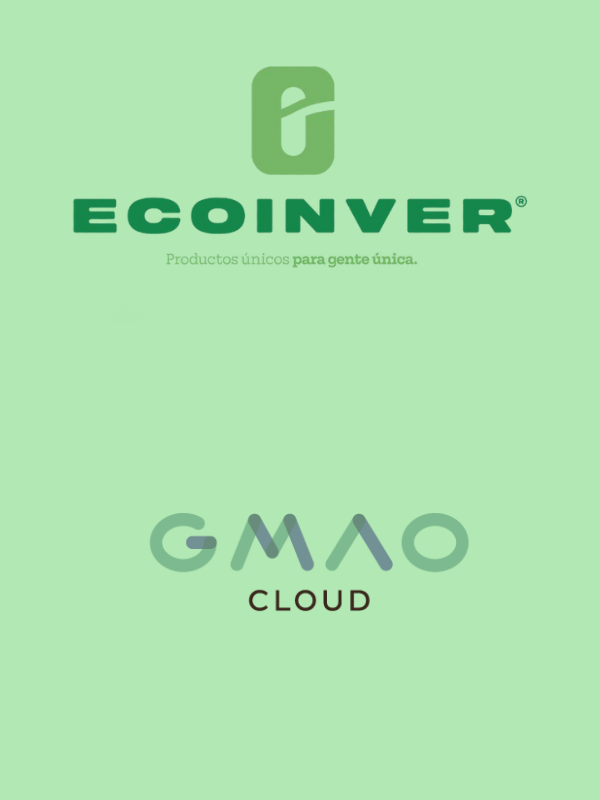
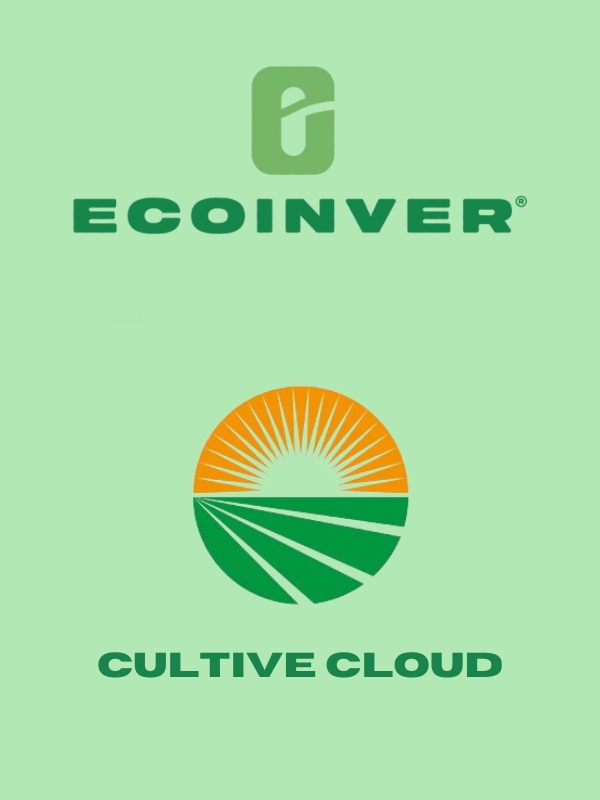
A
A

Changed region(s): [[0.24, 0.4688, 0.78, 0.7812], [0.15, 0.8125, 0.84, 0.875], [0.27, 0.3125, 0.69, 0.3438]]

diff --git a/src/app/components/sidebar/sidebar.component.ts b/src/app/components/sidebar/sidebar.component.ts
@@ -5,6 +5,7 @@ import { jwtDecode } from 'jwt-decode';
 
 interface TokenPayload {
   "http://schemas.microsoft.com/ws/2008/06/identity/claims/role": string;
+  "http://schemas.xmlsoap.org/ws/2005/05/identity/claims/formalizedname": string;
 }
 
 @Component({
@@ -12,230 +13,14 @@ interface TokenPayload {
   standalone: true,
   imports: [CommonModule],
   styleUrls: ['./sidebar.component.css'],
-  template: `
-    <div id="view" class="h-full w-screen flex flex-row">
-      <!-- Botón para mostrar el sidebar (visible en móviles) -->
-      <button
-        (click)="sidenav = true"
-        class="p-2 border-2 bg-white rounded-md border-gray-200 shadow-lg text-gray-500 focus:bg-teal-500 focus:outline-none focus:text-white absolute top-0 left-0 sm:hidden"
-      >
-        <svg
-          class="w-5 h-5 fill-current"
-          fill="currentColor"
-          viewBox="0 0 20 20"
-          xmlns="http://www.w3.org/2000/svg"
-        >
-          <path
-            fill-rule="evenodd"
-            d="M3 5a1 1 0 011-1h12a1 1 0 110 2H4a1 1 0 01-1-1zM3 10a1 1 0 011-1h12a1 1 0 110 2H4a1 1 0 01-1-1zM3 15a1 1 0 011-1h12a1 1 0 110 2H4a1 1 0 01-1-1z"
-            clip-rule="evenodd"
-          ></path>
-        </svg>
-      </button>
-      <!-- Sidebar: se muestra si sidenav es true -->
-      <div
-        id="sidebar"
-        class="bg-white h-screen md:block shadow-xl px-3 w-30 md:w-60 lg:w-60 overflow-x-hidden transition-transform duration-300 ease-in-out"
-        *ngIf="sidenav"
-      >
-        <div class="space-y-6 md:space-y-10 mt-10">
-          <h1 class="font-bold text-4xl text-center md:hidden">
-            D<span class="text-teal-600">.</span>
-          </h1>
-          <h1 class="hidden md:block font-bold text-sm md:text-xl text-center">
-            Dashwind<span class="text-teal-600">.</span>
-          </h1>
-          <div id="profile" class="space-y-3">
-            <img
-              src=""
-              alt="Avatar user"
-              class="w-10 md:w-16 rounded-full mx-auto"
-            />
-            <div>
-              <h2 class="font-medium text-xs md:text-sm text-center text-teal-500">
-                Admin
-              </h2>
-              <p class="text-xs text-gray-500 text-center">
-                {{ role === 'Admin' ? 'Administrator' : role }}
-              </p>
-            </div>
-          </div>
-          <div class="flex border-2 border-gray-200 rounded-md focus-within:ring-2 ring-teal-500">
-            <input
-              type="text"
-              class="w-full rounded-tl-md rounded-bl-md px-2 py-3 text-sm text-gray-600 focus:outline-none"
-              placeholder="Search"
-            />
-            <button class="rounded-tr-md rounded-br-md px-2 py-3 hidden md:block">
-              <svg
-                class="w-4 h-4 fill-current"
-                fill="currentColor"
-                viewBox="0 0 20 20"
-                xmlns="http://www.w3.org/2000/svg"
-              >
-                <path
-                  fill-rule="evenodd"
-                  d="M8 4a4 4 0 100 8 4 4 0 000-8zM2 8a6 6 0 1110.89 3.476l4.817 4.817a1 1 0 01-1.414 1.414l-4.816-4.816A6 6 0 012 8z"
-                  clip-rule="evenodd"
-                ></path>
-              </svg>
-            </button>
-          </div>
-          <div id="menu" class="flex flex-col space-y-2">
-            <a
-              routerLink="/dashboard"
-              class="text-sm font-medium text-gray-700 py-2 px-2 hover:bg-teal-500 hover:text-white hover:text-base rounded-md transition duration-150 ease-in-out"
-            >
-              <svg
-                class="w-6 h-6 fill-current inline-block"
-                fill="currentColor"
-                viewBox="0 0 20 20"
-                xmlns="http://www.w3.org/2000/svg"
-              >
-                <path
-                  d="M5 3a2 2 0 00-2 2v2a2 2 0 002 2h2a2 2 0 002-2V5a2 2 0 00-2-2H5zM5 11a2 2 0 00-2 2v2a2 2 0 002 2h2a2 2 0 002-2v-2a2 2 0 00-2-2H5zM11 5a2 2 0 012-2h2a2 2 0 012 2v2a2 2 0 01-2 2h-2a2 2 0 01-2-2V5zM11 13a2 2 0 012-2h2a2 2 0 012 2v2a2 2 0 01-2 2h-2a2 2 0 01-2-2v-2z"
-                ></path>
-              </svg>
-              <span>Dashboard</span>
-            </a>
-            <a
-              routerLink="/products"
-              class="text-sm font-medium text-gray-700 py-2 px-2 hover:bg-teal-500 hover:text-white hover:scale-105 rounded-md transition duration-150 ease-in-out"
-            >
-              <svg
-                class="w-6 h-6 fill-current inline-block"
-                fill="currentColor"
-                viewBox="0 0 20 20"
-                xmlns="http://www.w3.org/2000/svg"
-              >
-                <path
-                  d="M11 17a1 1 0 001.447.894l4-2A1 1 0 0017 15V9.236a1 1 0 00-1.447-.894l-4 2a1 1 0 00-.553.894V17zM15.211 6.276a1 1 0 000-1.788l-4.764-2.382a1 1 0 00-.894 0L4.789 4.488a1 1 0 000 1.788l4.764 2.382a1 1 0 00.894 0l4.764-2.382zM4.447 8.342A1 1 0 003 9.236V15a1 1 0 00.553.894l4 2A1 1 0 009 17v-5.764a1 1 0 00-.553-.894l-4-2z"
-                ></path>
-              </svg>
-              <span>Products</span>
-            </a>
-            <a
-              routerLink="/reports"
-              class="text-sm font-medium text-gray-700 py-2 px-2 hover:bg-teal-500 hover:text-white hover:scale-105 rounded-md transition duration-150 ease-in-out"
-            >
-              <svg
-                class="w-6 h-6 fill-current inline-block"
-                fill="currentColor"
-                viewBox="0 0 20 20"
-                xmlns="http://www.w3.org/2000/svg"
-              >
-                <path
-                  d="M9 2a1 1 0 000 2h2a1 1 0 100-2H9z"
-                ></path>
-                <path
-                  fill-rule="evenodd"
-                  d="M4 5a2 2 0 012-2 3 3 0 003 3h2a3 3 0 003-3 2 2 0 012 2v11a2 2 0 01-2 2H6a2 2 0 01-2-2V5zm3 4a1 1 0 000 2h.01a1 1 0 100-2H7zm3 0a1 1 0 000 2h3a1 1 0 100-2h-3zm-3 4a1 1 0 100 2h.01a1 1 0 100-2H7zm3 0a1 1 0 100 2h3a1 1 0 100-2h-3z"
-                  clip-rule="evenodd"
-                ></path>
-              </svg>
-              <span>Reports</span>
-            </a>
-            <a
-              routerLink="/messages"
-              class="text-sm font-medium text-gray-700 py-2 px-2 hover:bg-teal-500 hover:text-white hover:scale-105 rounded-md transition duration-150 ease-in-out"
-            >
-              <svg
-                class="w-6 h-6 fill-current inline-block"
-                fill="currentColor"
-                viewBox="0 0 20 20"
-                xmlns="http://www.w3.org/2000/svg"
-              >
-                <path
-                  d="M2 5a2 2 0 012-2h7a2 2 0 012 2v4a2 2 0 01-2 2H9l-3 3v-3H4a2 2 0 01-2-2V5z"
-                ></path>
-                <path
-                  d="M15 7v2a4 4 0 01-4 4H9.828l-1.766 1.767c.28.149.599.233.938.233h2l3 3v-3h2a2 2 0 002-2V9a2 2 0 00-2-2h-1z"
-                ></path>
-              </svg>
-              <span>Messages</span>
-            </a>
-            <a
-              routerLink="/calendar"
-              class="text-sm font-medium text-gray-700 py-2 px-2 hover:bg-teal-500 hover:text-white hover:scale-105 rounded-md transition duration-150 ease-in-out"
-            >
-              <svg
-                class="w-6 h-6 fill-current inline-block"
-                fill="currentColor"
-                viewBox="0 0 20 20"
-                xmlns="http://www.w3.org/2000/svg"
-              >
-                <path
-                  fill-rule="evenodd"
-                  d="M6 2a1 1 0 000 2h2a1 1 0 100-2H6z"
-                  clip-rule="evenodd"
-                ></path>
-                <path
-                  d="M2 5a2 2 0 012-2h7a2 2 0 012 2v4a2 2 0 01-2 2H9l-3 3v-3a2 2 0 00-2-2V5z"
-                ></path>
-              </svg>
-              <span>Calendar</span>
-            </a>
-            <a
-              routerLink="/table"
-              class="text-sm font-medium text-gray-700 py-2 px-2 hover:bg-teal-500 hover:text-white hover:scale-105 rounded-md transition duration-150 ease-in-out"
-            >
-              <svg
-                class="w-6 h-6 fill-current inline-block"
-                fill="currentColor"
-                viewBox="0 0 20 20"
-                xmlns="http://www.w3.org/2000/svg"
-              >
-                <path
-                  fill-rule="evenodd"
-                  d="M3 4a1 1 0 011-1h12a1 1 0 110 2H4a1 1 0 01-1-1zm0 4a1 1 0 011-1h12a1 1 0 110 2H4a1 1 0 01-1-1zm0 4a1 1 0 011-1h12a1 1 0 110 2H4a1 1 0 01-1-1zm0 4a1 1 0 011-1h12a1 1 0 110 2H4a1 1 0 01-1-1z"
-                  clip-rule="evenodd"
-                ></path>
-              </svg>
-              <span>Table</span>
-            </a>
-            <a
-              routerLink="/ui-components"
-              class="text-sm font-medium text-gray-700 py-2 px-2 hover:bg-teal-500 hover:text-white hover:scale-105 rounded-md transition duration-150 ease-in-out"
-            >
-              <svg
-                class="w-6 h-6 fill-current inline-block"
-                fill="currentColor"
-                viewBox="0 0 20 20"
-                xmlns="http://www.w3.org/2000/svg"
-              >
-                <path
-                  d="M5 3a2 2 0 00-2 2v2a2 2 0 002 2h2a2 2 0 002-2V5a2 2 0 00-2-2H5zM5 11a2 2 0 00-2 2v2a2 2 0 002 2h2a2 2 0 002-2v-2a2 2 0 00-2-2H5zM11 5a2 2 0 012-2h2a2 2 0 012 2v2a2 2 0 01-2 2h-2a2 2 0 01-2-2V5zM14 11a1 1 0 011 1v1h1a1 1 0 110 2h-1v1a1 1 0 11-2 0v-1h-1a1 1 0 110-2h1v-1a1 1 0 011-1z"
-                ></path>
-              </svg>
-              <span>UI Components</span>
-            </a>
-            <a
-              routerLink="/users"
-              class="text-sm font-medium text-gray-700 py-2 px-2 hover:bg-teal-500 hover:text-white hover:scale-105 rounded-md transition duration-150 ease-in-out"
-            >
-              <svg
-                class="w-6 h-6 fill-current inline-block"
-                fill="currentColor"
-                viewBox="0 0 20 20"
-                xmlns="http://www.w3.org/2000/svg"
-              >
-                <path
-                  d="M13 6a3 3 0 11-6 0 3 3 0 016 0zM18 8a2 2 0 11-4 0 2 2 0 014 0zM14 15a4 4 0 00-8 0v3h8v-3zM6 8a2 2 0 11-4 0 2 2 0 014 0zM16 18v-3a5.972 5.972 0 00-.75-2.906A3.005 3.005 0 0119 15v3h-3zM4.75 12.094A5.973 5.973 0 004 15v3H1v-3a3 3 0 013.75-2.906z"
-                ></path>
-              </svg>
-              <span>Users</span>
-            </a>
-          </div>
-        </div>
-      </div>
-    </div>
-  `
+  templateUrl: './sidebar.component.html'
 })
 export class SidebarComponent implements OnInit {
   role: string | null = null;
+  name: string | null = null;
   sidenav: boolean = true;
 
-  constructor(private router: Router) {}
+  constructor(private router: Router) { }
 
   ngOnInit(): void {
     const token = localStorage.getItem('token');
@@ -246,7 +31,9 @@ export class SidebarComponent implements OnInit {
     try {
       const decoded = jwtDecode<TokenPayload>(token);
       this.role = decoded["http://schemas.microsoft.com/ws/2008/06/identity/claims/role"];
-      console.log(this.role);
+      this.name = decoded["http://schemas.xmlsoap.org/ws/2005/05/identity/claims/formalizedname"];
+      console.log('Role:', this.role);
+      console.log('Formalized Name:', this.name);
     } catch (error) {
       console.error('Error al decodificar el token', error);
       this.router.navigate(['/login']);

diff --git a/src/app/components/sidebar/sidebar.component.html b/src/app/components/sidebar/sidebar.component.html
@@ -1,0 +1,55 @@
+<div id="view" class="w-screen flex flex-row" style="height: calc(100vh - 4rem);">
+    <!-- Botón para mostrar el sidebar (visible en móviles) -->
+    <button (click)="sidenav = true"
+        class="p-2 border-2 bg-white rounded-md border-gray-200 shadow-lg text-gray-500 focus:bg-teal-500 focus:outline-none focus:text-white absolute top-0 left-0 sm:hidden">
+        <svg class="w-5 h-5 fill-current" fill="currentColor" viewBox="0 0 20 20" xmlns="http://www.w3.org/2000/svg">
+            <path fill-rule="evenodd"
+                d="M3 5a1 1 0 011-1h12a1 1 0 110 2H4a1 1 0 01-1-1zM3 10a1 1 0 011-1h12a1 1 0 110 2H4a1 1 0 01-1-1zM3 15a1 1 0 011-1h12a1 1 0 110 2H4a1 1 0 01-1-1z"
+                clip-rule="evenodd"></path>
+        </svg>
+    </button>
+    <!-- Sidebar: se muestra siempre y ocupa el 100% del alto del contenedor -->
+    <div id="sidebar"
+        class="bg-white h-full md:block shadow-xl px-3 w-30 md:w-60 lg:w-60 overflow-x-hidden transition-transform duration-300 ease-in-out">
+        <div class="space-y-6 md:space-y-10 mt-10">
+            <h1 class="font-bold text-4xl text-center md:hidden">
+                D<span class="text-teal-600">.</span>
+            </h1>
+            <h1 class="hidden md:block font-bold text-sm md:text-xl text-center"
+                style="font-family: 'Horizon', sans-serif;">
+                <span class="text-teal-600">Cultive </span>Cloud
+            </h1>
+
+            <div id="profile" class="space-y-3">
+                <img src="https://upload.wikimedia.org/wikipedia/commons/7/7c/Profile_avatar_placeholder_large.png?20150327203541" alt="Avatar user" class="w-10 md:w-16 rounded-full mx-auto" />
+                <div>
+                    <h2 class="font-medium text-xs md:text-sm text-center text-teal-500">
+                        {{ name }}
+                    </h2>
+                    <p class="text-xs text-gray-500 text-center">
+                        {{ role }}
+                    </p>
+                </div>
+
+            </div>
+            <div class="flex border-2 border-gray-200 rounded-md focus-within:ring-2 ring-teal-500">
+                <input type="text"
+                    class="w-full rounded-tl-md rounded-bl-md px-2 py-3 text-sm text-gray-600 focus:outline-none"
+                    placeholder="Buscar" />
+                <button class="rounded-tr-md rounded-br-md px-2 py-3 hidden md:block">
+                    <svg class="w-4 h-4 fill-current" fill="currentColor" viewBox="0 0 20 20"
+                        xmlns="http://www.w3.org/2000/svg">
+                        <path fill-rule="evenodd"
+                            d="M8 4a4 4 0 100 8 4 4 0 000-8zM2 8a6 6 0 1110.89 3.476l4.817 4.817a1 1 0 01-1.414 1.414l-4.816-4.816A6 6 0 012 8z"
+                            clip-rule="evenodd"></path>
+                    </svg>
+                </button>
+            </div>
+            <div id="menu" class="flex flex-col space-y-2">
+                <!-- Resto del menú (Dashboard, Products, etc.) -->
+                <!-- ... -->
+            </div>
+        </div>
+    </div>
+    <!-- Aquí iría el resto del contenido si lo hubiera -->
+</div>

diff --git a/src/app/components/footer/footer.component.ts b/src/app/components/footer/footer.component.ts
@@ -5,11 +5,7 @@ import { CommonModule } from '@angular/common';
   selector: 'app-footer',
   standalone: true,
   imports: [CommonModule],
-  template: `
-    <footer class="bg-gray-800 text-white p-4 text-center">
-      <!-- Contenido del Footer -->
-      <p>&copy; 2025 Mi Aplicación</p>
-    </footer>
-  `
+  templateUrl: './footer.component.html'
+
 })
 export class FooterComponent {}

diff --git a/src/app/components/footer/footer.component.html b/src/app/components/footer/footer.component.html
@@ -1,1 +1,4 @@
-<p>footer works!</p>
+<footer class="bg-gray-800 text-white p-4 text-center">
+    <!-- Contenido del Footer -->
+    <p>&copy; 2025 Mi Aplicación</p>
+  </footer>
